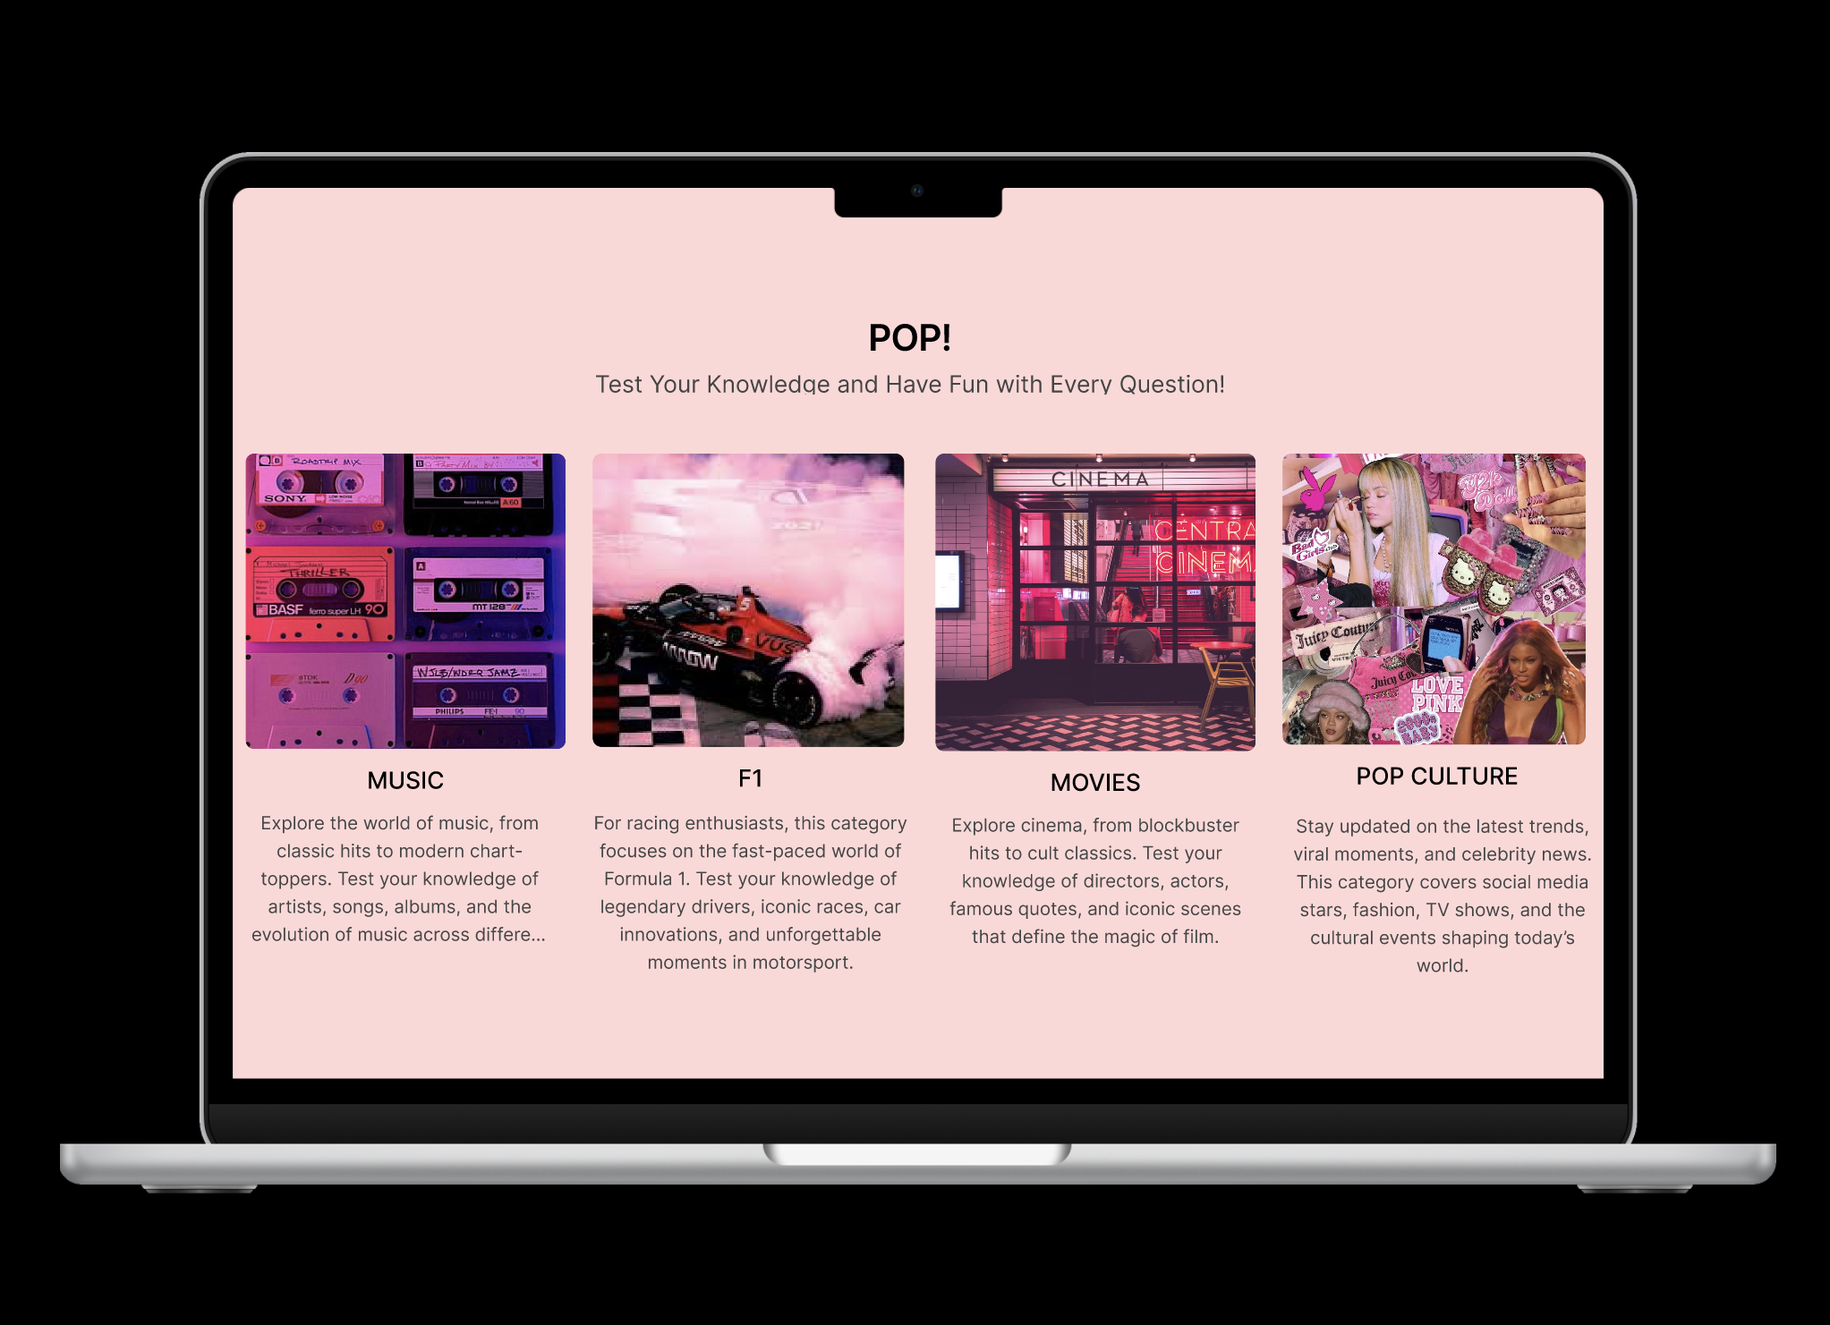
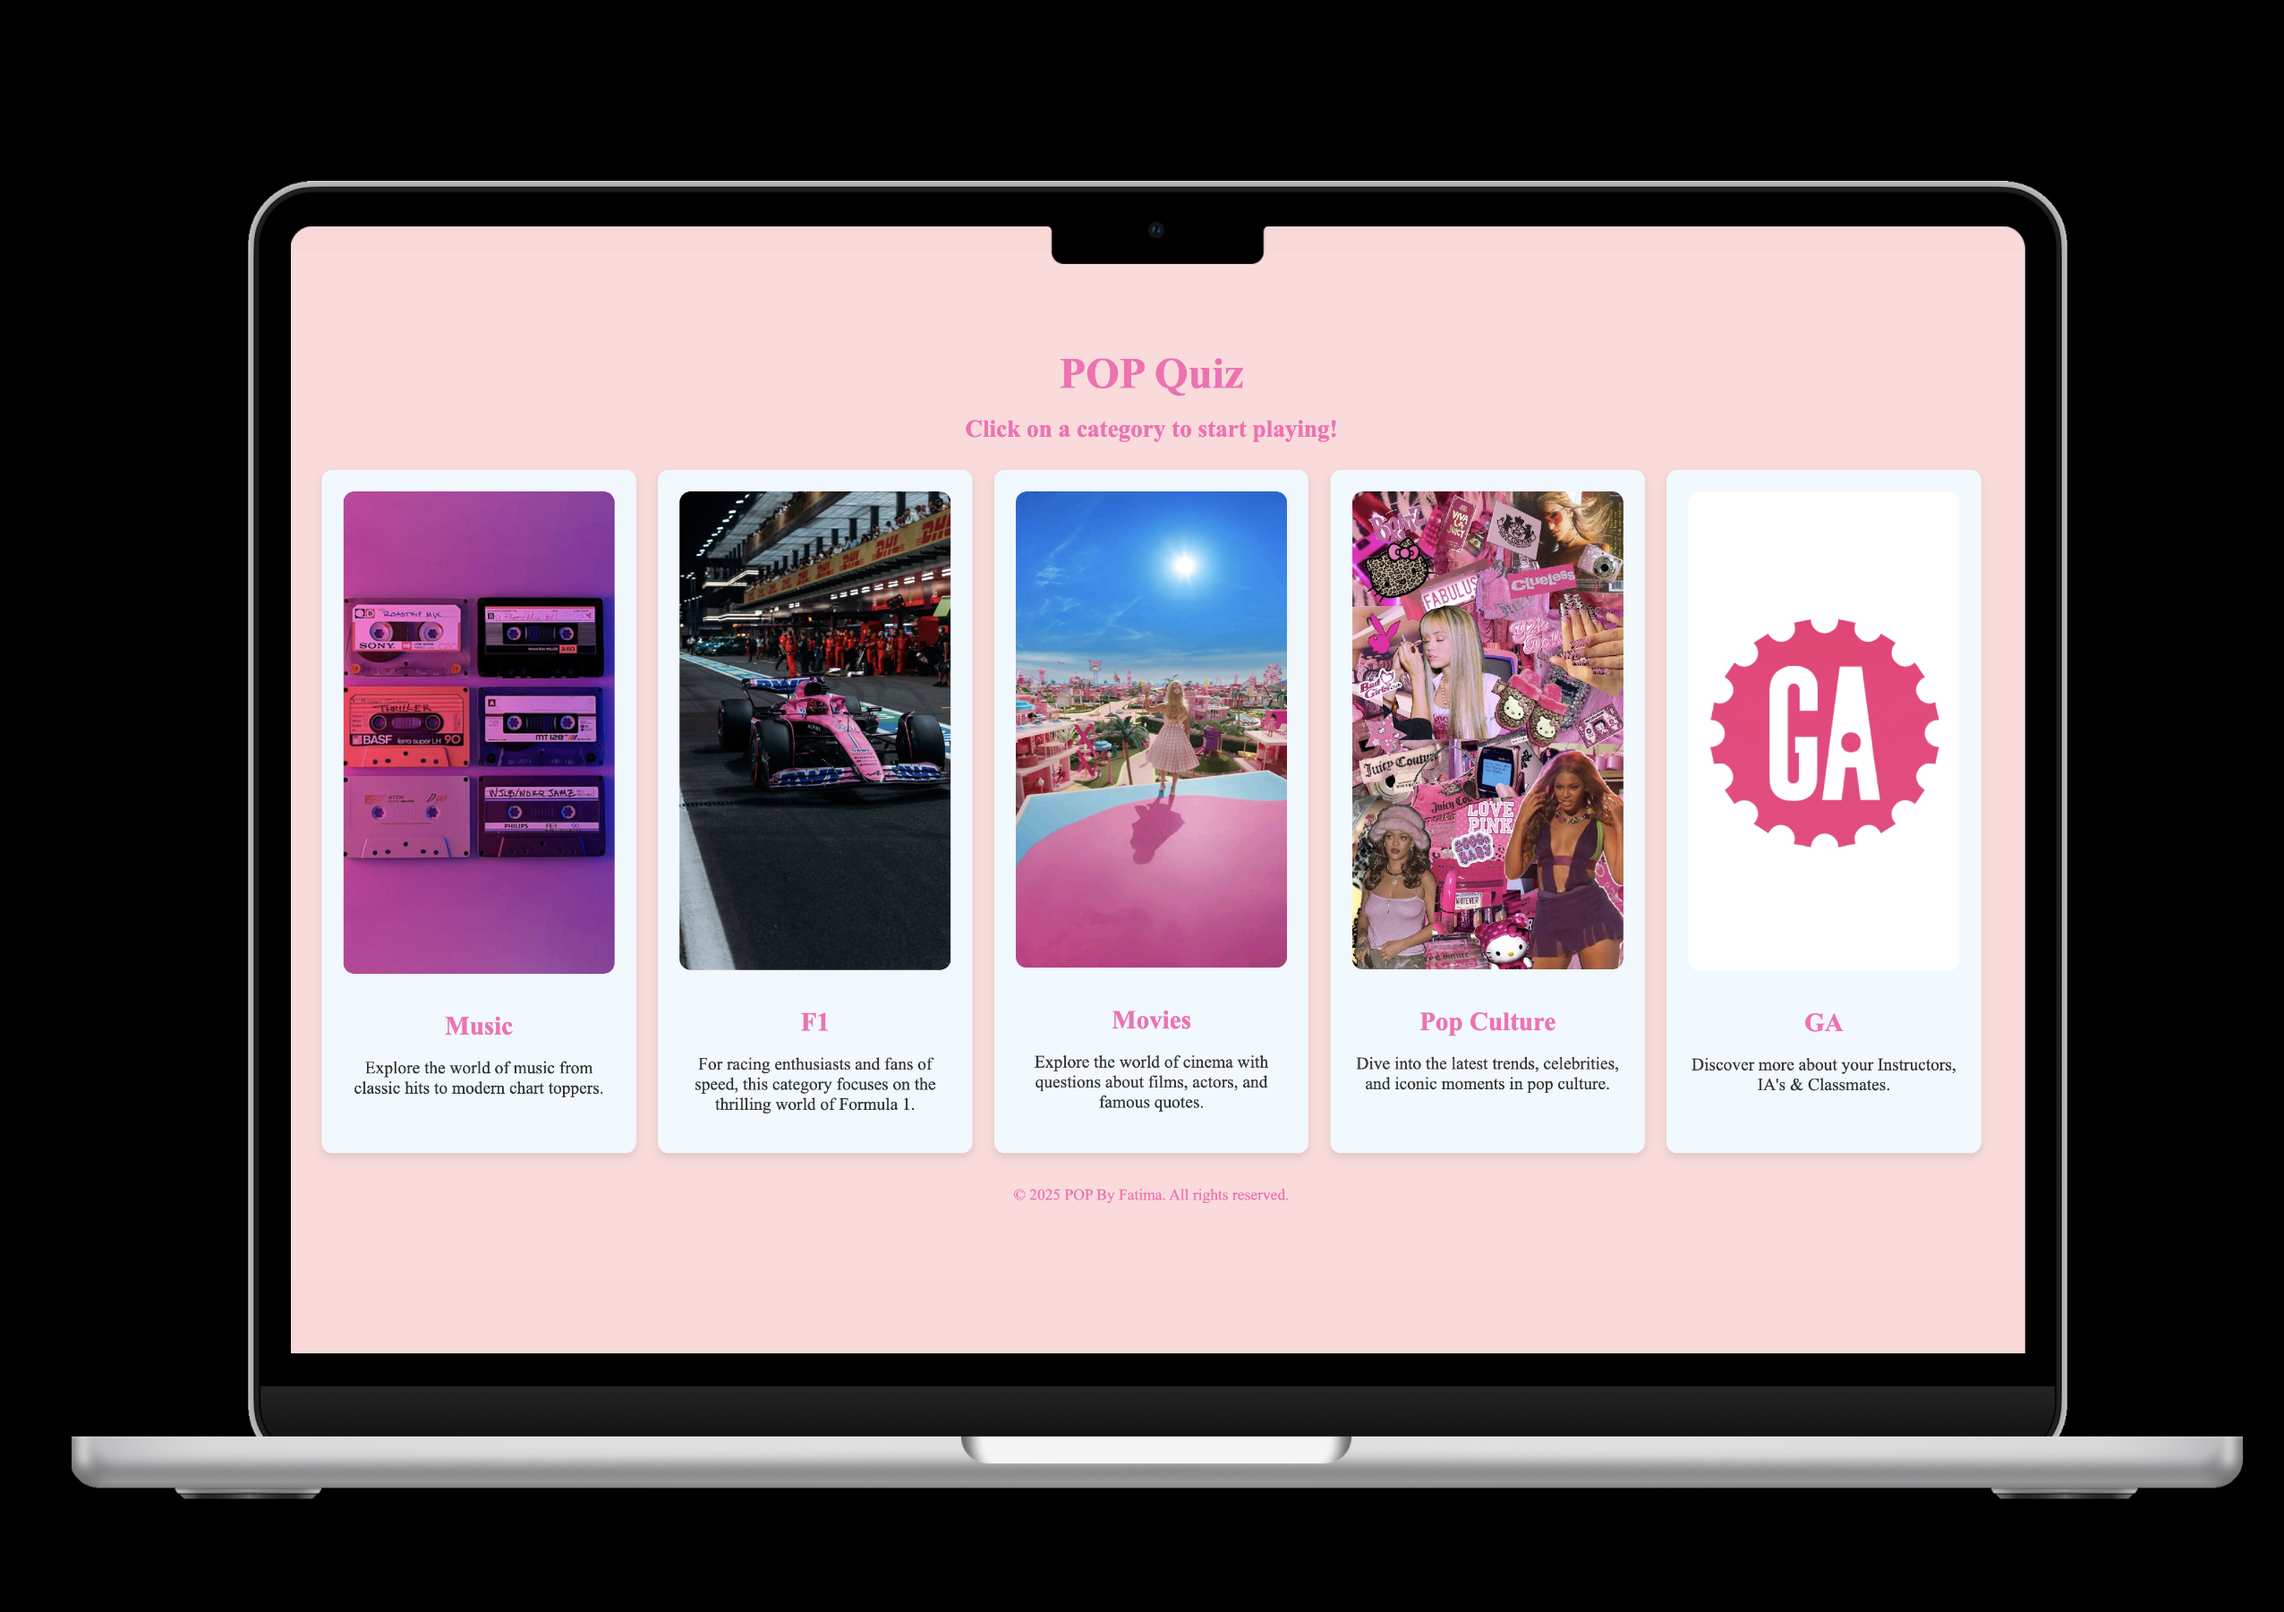
README requirements

diff --git a/README.md b/README.md
@@ -1,24 +1,35 @@
 # POP! Quiz Game
 ![POP! prototype](images/Prototype.png)
 
-**POP By Fatima** is a fun and interactive quiz game where users can test their knowledge in four exciting categories:
-- 🎵 Music  
-- 🏎 Formula 1  
-- 🎬 Movies  
-- 💖 Pop Culture
+**POP By Fatima** is a fun and interactive quiz game where users can test their knowledge in five exciting categories:
+- Music  
+- Formula 1  
+- Movies  
+- Pop Culture
+- GA
 
-Each quiz includes multiple-choice questions to challenge what you know — from classic tunes to fast-paced F1 history, iconic films, and celebrity trends.
+Each quiz includes multiple-choice questions to challenge what you know — from classic tunes to fast-paced F1 history, iconic films, celebrity trends and GA.
 
 ---
+
+## Why i made this game
+
+I created POP! during my time at General Assembly’s Software Engineering Bootcamp as a fun way to blend learning with creativity. I wanted to build something that felt lighthearted, nostalgic, and genuinely fun — a break from typical apps that still showcases solid front-end development skills.
+
+---
+
+## Deployed link
+
+https://pop-by-fatima.surge.sh/
 
 ## Features
 
 - Easy-to-use and beginner-friendly UI
-- 4 fun quiz categories
+- 5 fun quiz categories
 - Multiple-choice questions
 - Tracks your score
 - Option to reset the quiz or return to the home screen
-- Simple navigation with **Next** and **Reset** buttons
+- Simple navigation with **Skip** and **PlayAgain** buttons
 
 ---
 
@@ -26,9 +37,9 @@ Each quiz includes multiple-choice questions to challenge what you know — from
 
 1. Choose a category from the home screen.
 2. Answer each question by clicking one of the four answer buttons.
-3. Click **Next** to move to the next question.
+3. Click **Skip** to move to the next question.
 4. View your final score at the end.
-5. Click **Reset** to retake the quiz or **Home** to select another category.
+5. Click **PlayAgain** to retake the quiz or **Home** to select another category.
 
 ---
 
@@ -40,14 +51,44 @@ Each quiz includes multiple-choice questions to challenge what you know — from
 
 ---
 
+## Next Steps
+
+- Adding a progress bar 
+- Randomizing question order after each round
+
+---
+
 ## Project Structure
 
 ```plaintext
 /POP-BY-FATIMA
 │
-├── index.html       # Main HTML structure
-├── style.css        # All the styling and layout
-├── app.js           # Game logic and interactions
-|── README.md        # You're reading it!
-└── pseudocode.md    # Gameplay pseudocode 
-
+├── index.html               # Main home page with category selection
+├── playf1.html              # F1 quiz page
+├── playga.html              # General Assembly quiz page
+├── playmovies.html          # Movies quiz page
+├── playmusic.html           # Music quiz page
+├── playpopculture.html      # Pop Culture quiz page
+│
+├── style.css                # All styling and layout
+│
+├── app.js                   # Logic for F1 quiz
+├── app ga.js                # Logic for General Assembly quiz
+├── app movies.js            # Logic for Movies quiz
+├── app music.js             # Logic for Music quiz
+├── app pop.js               # Logic for Pop Culture quiz
+│
+├── README.md                # Project overview and instructions
+├── pseudocode.md            # Pseudocode explanation of game flow
+├── CNAME                    # Custom domain file 
+│
+├── /images                  # Image assets used across the project
+│   ├── alpine-pink.JPG
+│   ├── barbie-pink.jpg
+│   ├── ga-pink.jpg
+│   ├── icons-pink.jpg
+│   ├── music-pink.jpg
+│   └── Prototype.png
+│
+└── /sound                   # Background music
+    └── flash-quiz-loop.mp3
